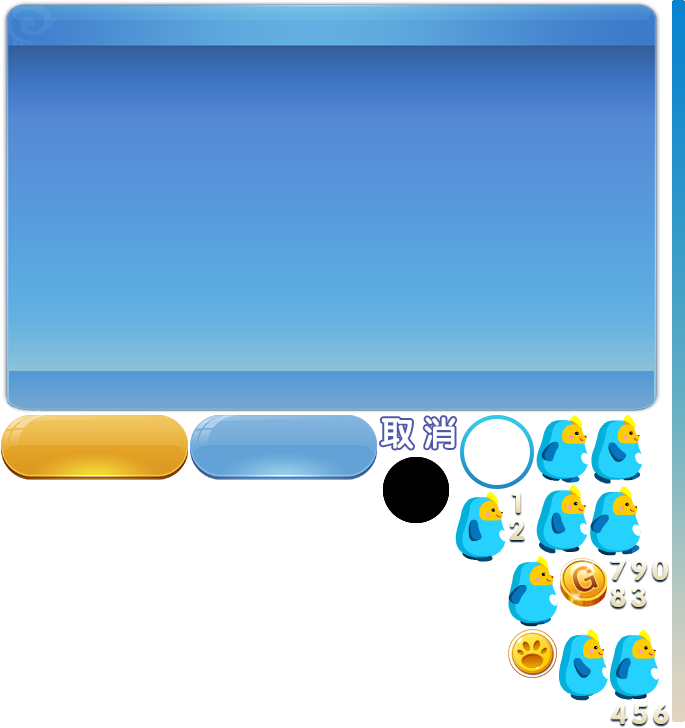
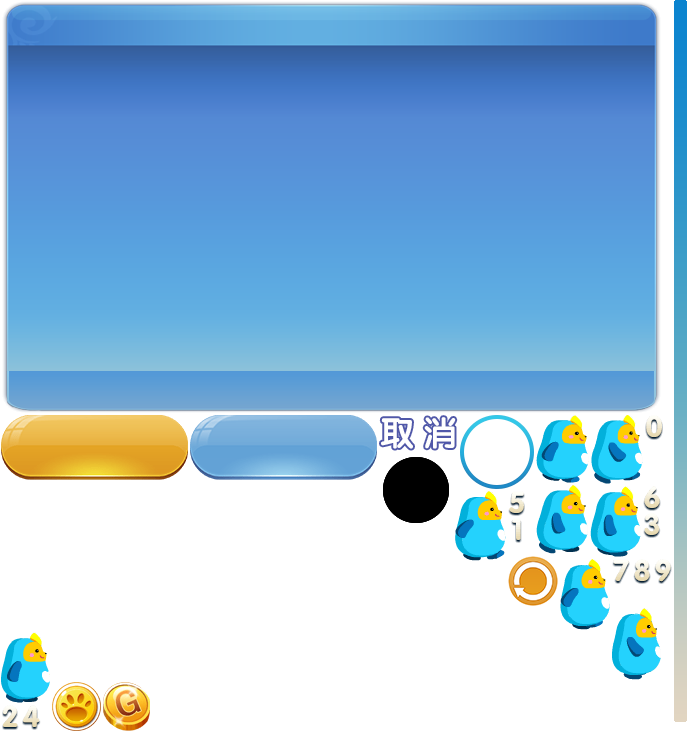
更新ui

Changed region(s): [[0.0, 0.0, 1.0, 1.0], [0.0, 0.8462, 0.2146, 1.0]]

diff --git a/Client/src/UI/UIMain.ts b/Client/src/UI/UIMain.ts
@@ -14,9 +14,7 @@ export class UIMain implements IUIModule {
 	public get root(): fairygui.GComponent { return this._root; }
 
 	private readonly _matchBtn: fairygui.GComponent;
-	private readonly _matchBtn2: fairygui.GComponent;
 	private readonly _matchBtn3: fairygui.GComponent;
-	private readonly _matchBtn4: fairygui.GComponent;
 	private readonly _inviteBtn: fairygui.GComponent;
 	private readonly _closeBtn: fairygui.GComponent;
 	private readonly _ranking: UIRanking;
@@ -32,15 +30,11 @@ export class UIMain implements IUIModule {
 		this._invating = new UIInviting();
 
 		this._matchBtn = this._root.getChild("n3").asCom;
-		this._matchBtn2 = this._root.getChild("n13").asCom;
-		this._matchBtn3 = this._root.getChild("n54").asCom;
-		this._matchBtn4 = this._root.getChild("n55").asCom;
+		this._matchBtn3 = this._root.getChild("n19").asCom;
 		this._inviteBtn = this._root.getChild("n4").asCom;
 		this._closeBtn = this._root.getChild("close_btn").asCom;
 		this._matchBtn.onClick(this, this.OnMatchBtnClick);
-		this._matchBtn2.onClick(this, this.OnMatchBtn2Click);
 		this._matchBtn3.onClick(this, this.OnMatchBtn3Click);
-		this._matchBtn4.onClick(this, this.OnMatchBtn4Click);
 		this._inviteBtn.onClick(this, this.OnInviteBtnClick);
 		this._closeBtn.onClick(this, this.OnCloseBtnClick);
 
@@ -92,9 +86,7 @@ export class UIMain implements IUIModule {
 
 	public SetMatchBtnEnable(value: boolean): void {
 		this._matchBtn.enabled = value;
-		this._matchBtn2.enabled = value;
 		this._matchBtn3.enabled = value;
-		this._matchBtn4.enabled = value;
 	}
 
 	public ShowModalWait(): void {
@@ -110,18 +102,9 @@ export class UIMain implements IUIModule {
 		Global.sceneManager.main.BeginMatch(Protos.GC2CS_BeginMatch.EMode.T2P1);
 	}
 
-	private OnMatchBtn2Click(): void {
-		this.SetMatchBtnEnable(false);
-		Global.sceneManager.main.BeginMatch(Protos.GC2CS_BeginMatch.EMode.T1P1);
-	}
-
 	private OnMatchBtn3Click(): void {
-		fairygui.GRoot.inst.showModalWait();
-		Global.sceneManager.main.TestCreateRoom();
-	}
-
-	private OnMatchBtn4Click(): void {
-		Global.sceneManager.main.TestJoinRoom(Number.parseInt(this._root.getChild("n56").asTextInput.text));
+		this.SetMatchBtnEnable(false);
+		Global.sceneManager.main.BeginMatch(Protos.GC2CS_BeginMatch.EMode.T4P1);
 	}
 
 	private OnInviteBtnClick(): void {

diff --git a/Client/bin/js/UI/UIMain.js b/Client/bin/js/UI/UIMain.js
@@ -12,14 +12,12 @@ define(["require", "exports", "../Consts", "../Global", "../Libs/protos", "../RC
             this._invating = new UIInviting_1.UIInviting();
             this._matchBtn = this._root.getChild("n3").asCom;
             this._matchBtn2 = this._root.getChild("n13").asCom;
-            this._matchBtn3 = this._root.getChild("n54").asCom;
-            this._matchBtn4 = this._root.getChild("n55").asCom;
+            this._matchBtn3 = this._root.getChild("n19").asCom;
             this._inviteBtn = this._root.getChild("n4").asCom;
             this._closeBtn = this._root.getChild("close_btn").asCom;
             this._matchBtn.onClick(this, this.OnMatchBtnClick);
             this._matchBtn2.onClick(this, this.OnMatchBtn2Click);
             this._matchBtn3.onClick(this, this.OnMatchBtn3Click);
-            this._matchBtn4.onClick(this, this.OnMatchBtn4Click);
             this._inviteBtn.onClick(this, this.OnInviteBtnClick);
             this._closeBtn.onClick(this, this.OnCloseBtnClick);
             if (!Laya.Browser.onWeiXin) {
@@ -62,7 +60,6 @@ define(["require", "exports", "../Consts", "../Global", "../Libs/protos", "../RC
             this._matchBtn.enabled = value;
             this._matchBtn2.enabled = value;
             this._matchBtn3.enabled = value;
-            this._matchBtn4.enabled = value;
         }
         ShowModalWait() {
             fairygui.GRoot.inst.showModalWait();
@@ -79,11 +76,8 @@ define(["require", "exports", "../Consts", "../Global", "../Libs/protos", "../RC
             Global_1.Global.sceneManager.main.BeginMatch(protos_1.Protos.GC2CS_BeginMatch.EMode.T1P1);
         }
         OnMatchBtn3Click() {
-            fairygui.GRoot.inst.showModalWait();
-            Global_1.Global.sceneManager.main.TestCreateRoom();
-        }
-        OnMatchBtn4Click() {
-            Global_1.Global.sceneManager.main.TestJoinRoom(Number.parseInt(this._root.getChild("n56").asTextInput.text));
+            this.SetMatchBtnEnable(false);
+            Global_1.Global.sceneManager.main.BeginMatch(protos_1.Protos.GC2CS_BeginMatch.EMode.T4P1);
         }
         OnInviteBtnClick() {
             if (Laya.Browser.onMiniGame) {

diff --git a/wx/js/UI/UIMain.js b/wx/js/UI/UIMain.js
@@ -15,15 +15,11 @@ export class UIMain {
         this._ranking = new UIRanking();
         this._invating = new UIInviting();
         this._matchBtn = this._root.getChild("n3").asCom;
-        this._matchBtn2 = this._root.getChild("n13").asCom;
-        this._matchBtn3 = this._root.getChild("n54").asCom;
-        this._matchBtn4 = this._root.getChild("n55").asCom;
+        this._matchBtn3 = this._root.getChild("n19").asCom;
         this._inviteBtn = this._root.getChild("n4").asCom;
         this._closeBtn = this._root.getChild("close_btn").asCom;
         this._matchBtn.onClick(this, this.OnMatchBtnClick);
-        this._matchBtn2.onClick(this, this.OnMatchBtn2Click);
         this._matchBtn3.onClick(this, this.OnMatchBtn3Click);
-        this._matchBtn4.onClick(this, this.OnMatchBtn4Click);
         this._inviteBtn.onClick(this, this.OnInviteBtnClick);
         this._closeBtn.onClick(this, this.OnCloseBtnClick);
         if (!Laya.Browser.onWeiXin) {
@@ -64,9 +60,7 @@ export class UIMain {
     }
     SetMatchBtnEnable(value) {
         this._matchBtn.enabled = value;
-        this._matchBtn2.enabled = value;
         this._matchBtn3.enabled = value;
-        this._matchBtn4.enabled = value;
     }
     ShowModalWait() {
         fairygui.GRoot.inst.showModalWait();
@@ -78,16 +72,9 @@ export class UIMain {
         this.SetMatchBtnEnable(false);
         Global.sceneManager.main.BeginMatch(Protos.GC2CS_BeginMatch.EMode.T2P1);
     }
-    OnMatchBtn2Click() {
-        this.SetMatchBtnEnable(false);
-        Global.sceneManager.main.BeginMatch(Protos.GC2CS_BeginMatch.EMode.T1P1);
-    }
     OnMatchBtn3Click() {
-        fairygui.GRoot.inst.showModalWait();
-        Global.sceneManager.main.TestCreateRoom();
-    }
-    OnMatchBtn4Click() {
-        Global.sceneManager.main.TestJoinRoom(Number.parseInt(this._root.getChild("n56").asTextInput.text));
+        this.SetMatchBtnEnable(false);
+        Global.sceneManager.main.BeginMatch(Protos.GC2CS_BeginMatch.EMode.T4P1);
     }
     OnInviteBtnClick() {
         if (Laya.Browser.onMiniGame) {
